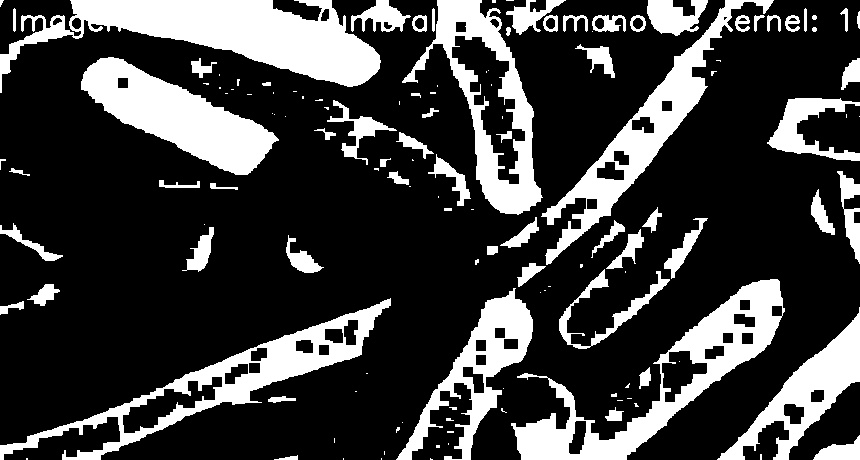
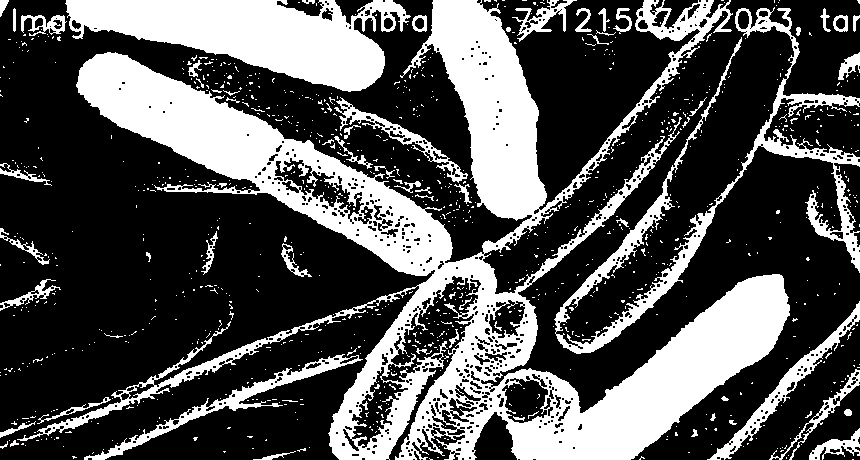
v13: Realice cambios en la erosion y en el mensaje

diff --git a/clases.py b/clases.py
@@ -124,21 +124,22 @@ class ImagenFile:
     def guardar_imagen(self, imagen, ruta_destino):
         cv2.imwrite(ruta_destino, imagen)
 
-    def binarizacion_morfologia(self, umbral):
+    def binarizacion_morfologia(self):
         imagen = self.cargar_imagen()
 
         # Convertir a escala de grises
         imagen_gris = cv2.cvtColor(imagen, cv2.COLOR_BGR2GRAY)
+        mid = np.mean(imagen_gris) #umbral
 
         # Aplicar binarización
-        _, imagen_binarizada = cv2.threshold(imagen_gris, umbral, 255, cv2.THRESH_BINARY)
+        _, imagen_binarizada = cv2.threshold(imagen_gris, mid, 255, cv2.THRESH_BINARY)
+        print(imagen_binarizada)
 
         # Aplicar transformación morfológica
-        kernel = np.ones((10,10),np.uint8)
+        kernel = np.ones((2,2),np.uint8)
         imaEro = cv2.erode(imagen_binarizada,kernel,iterations = 1)
 
         # Añadir texto a la imagen
-        texto = f"Imagen binarizada (umbral: {umbral}, tamano de kernel: {len(kernel)})"
-        cv2.putText(imaEro, texto,  (10, 30), cv2.FONT_HERSHEY_SIMPLEX, 1, (255, 255, 255), 2)
-
+        texto = f"Imagen binarizada (umbral: {mid}, tamano de kernel: {len(kernel)})"
+        cv2.putText(imaEro, texto,  (10, 30), cv2.FONT_HERSHEY_SIMPLEX, 1, (255,0,255), 2)
         return imaEro

diff --git a/implementacion.py b/implementacion.py
@@ -76,18 +76,10 @@ while True:
         # Implementa la opción para realizar binarización y transformación morfológica
         ruta_imagen = input("Ingrese la ruta de la imagen (JPG o PNG): ")
         imagen = ImagenFile(ruta_imagen)
-
-        # Solicitar al usuario el umbral
-        umbral = int(input("Ingrese el umbral para la binarización (0-60): "))
         # Aplicar binarización y transformación morfológica
-        imagen_procesada = imagen.binarizacion_morfologia(umbral)
+        imagen_procesada = imagen.binarizacion_morfologia()
 
-        # Guardar la imagen procesada
-        ruta_guardado = input("Ingrese la ruta de destino para guardar la imagen procesada: ")
-        imagen.guardar_imagen(imagen_procesada, ruta_guardado)
-        print("---------------------------------------------------------")
-        print("Imagen procesada guardada exitosamente en:", ruta_guardado)
-        print("---------------------------------------------------------")
+        # Guardar la imagen procesada-------------------------")
         
     elif opcion == "5":
             print("-----------")
